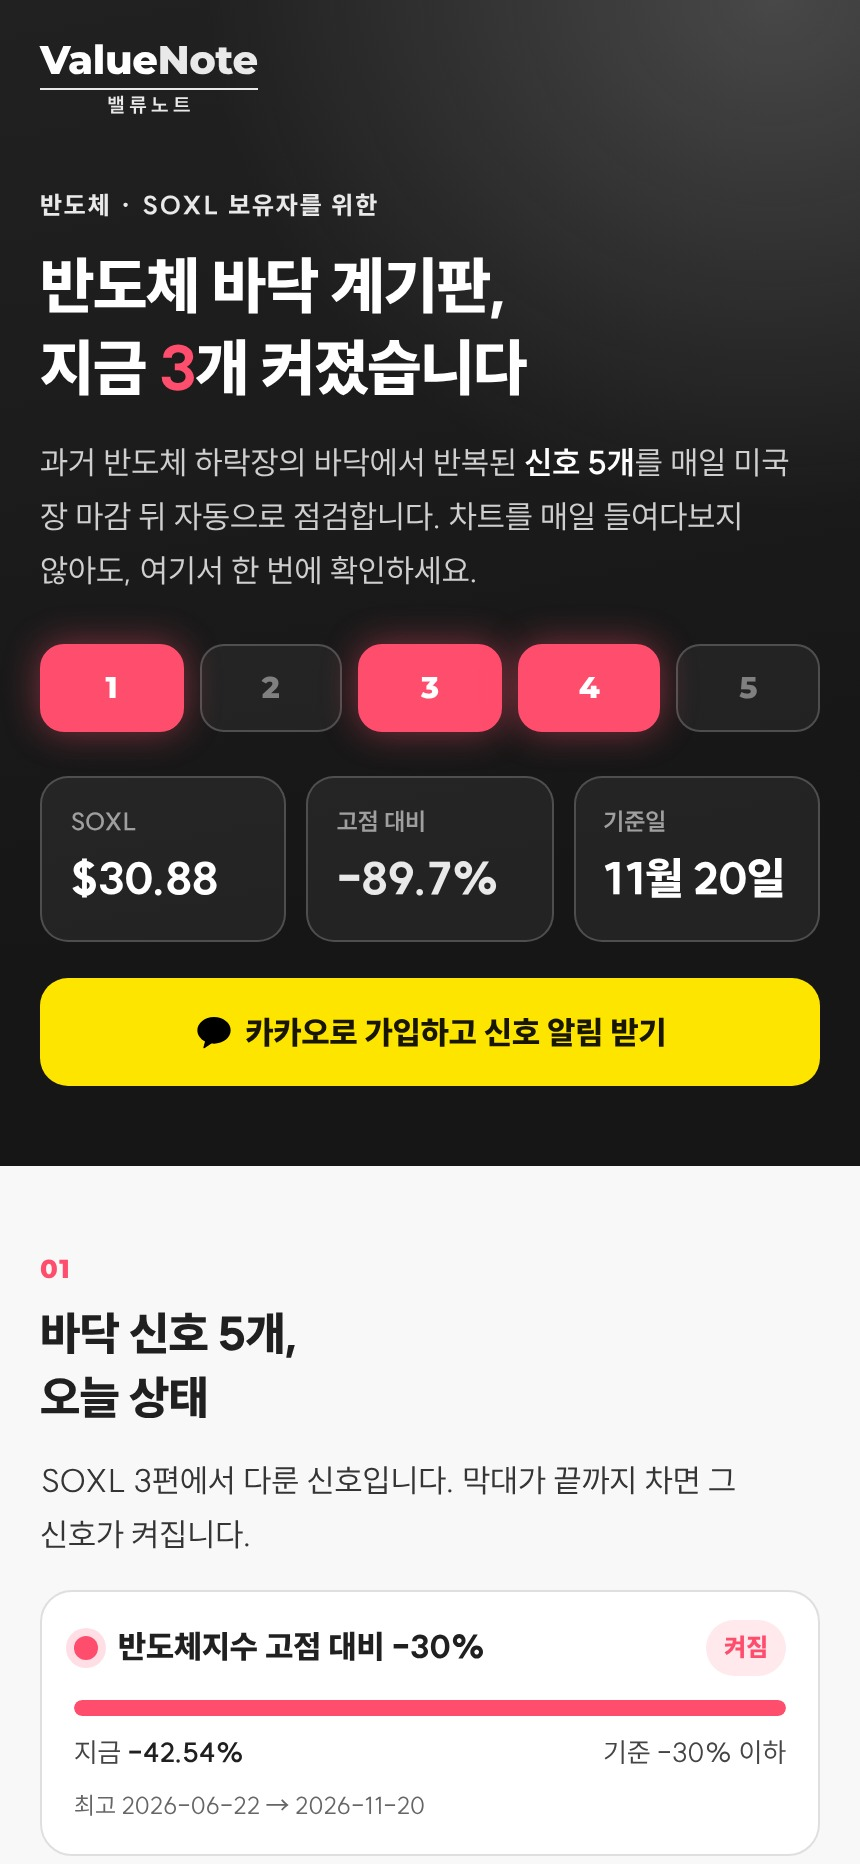
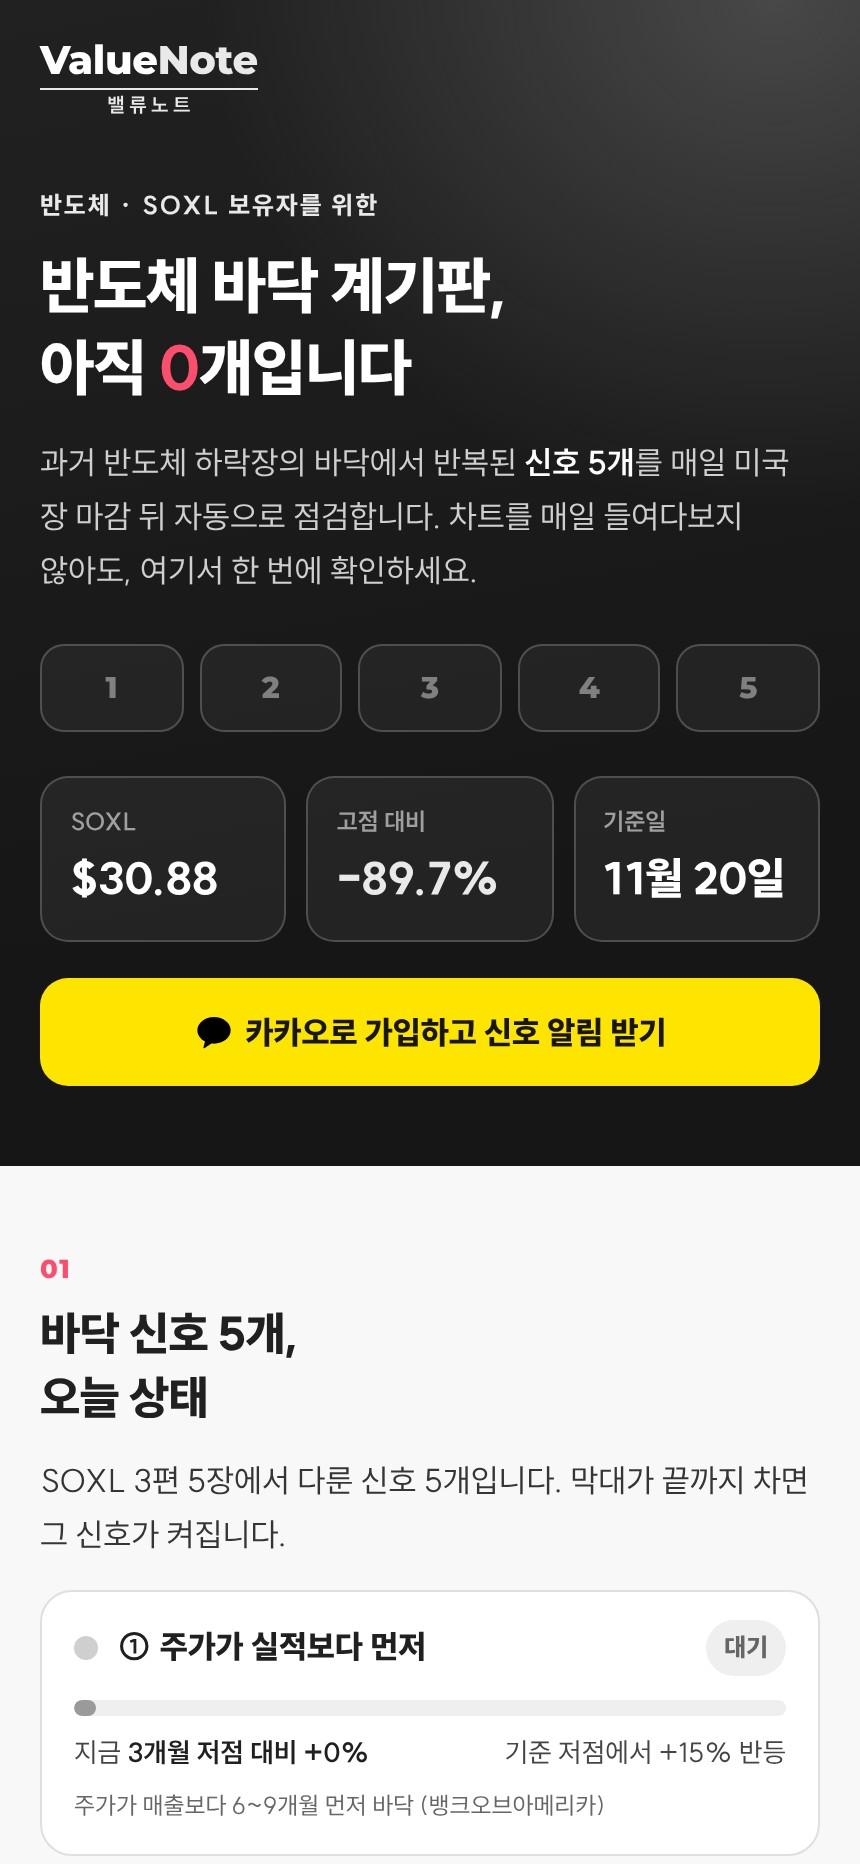
반도체 계기판: 신호 5개를 SOXL 3편 5장 정의로 맞춤(지금 0개), 하락 기간 달력일, 캡처 갱신
Claude-Session: https://claude.ai/code/session_01KaYReHBjpBU32vuLAbCbMK

diff --git a/semi.html b/semi.html
@@ -208,7 +208,7 @@ body{padding-bottom:76px}
   <div class="wrap">
     <a class="wm" href="/start?utm_source=semi"><span class="e">Value<i>Note</i></span><small>밸류노트</small></a>
     <div class="eyebrow">반도체 · SOXL 보유자를 위한</div>
-    <h1>반도체 바닥 계기판,<br>지금 <em id="h-on">–</em>개 켜졌습니다</h1>
+    <h1 id="h-t">반도체 바닥 계기판,<br>지금 <em id="h-on">–</em>개 켜졌습니다</h1>
     <p>과거 반도체 하락장의 바닥에서 반복된 <b>신호 5개</b>를 매일 미국 장 마감 뒤 자동으로 점검합니다. 차트를 매일 들여다보지 않아도, 여기서 한 번에 확인하세요.</p>
     <div class="lamps" id="lamps"></div>
     <div class="stat">
@@ -224,7 +224,7 @@ body{padding-bottom:76px}
 <section>
   <div class="no">01</div>
   <h2>바닥 신호 5개,<br>오늘 상태</h2>
-  <p>SOXL 3편에서 다룬 신호입니다. 막대가 끝까지 차면 그 신호가 켜집니다.</p>
+  <p>SOXL 3편 5장에서 다룬 신호 5개입니다. 막대가 끝까지 차면 그 신호가 켜집니다.</p>
   <div class="sig" id="sig"></div>
   <div class="note" id="sig-note"></div>
 </section>
@@ -331,7 +331,7 @@ document.addEventListener('click', function(e){ var a = e.target.closest && e.ta
 var md = function(d){ var p = String(d || '').split('-'); return p.length === 3 ? (+p[1]) + '월 ' + (+p[2]) + '일' : d; };
 var sg = function(x){ return (x > 0 ? '+' : '') + x.toFixed(1) + '%'; };
 function render(g){
-  $('#h-on').textContent = g.on;
+  if(g.on === 0) $('#h-t').innerHTML = '반도체 바닥 계기판,<br>아직 <em>0</em>개입니다'; else $('#h-on').textContent = g.on;
   $('#lamps').innerHTML = g.signals.map(function(s, i){ return '<span class="' + (s.on ? 'on' : '') + '">' + (i + 1) + '</span>'; }).join('');
   var sx = (g.etfs || []).filter(function(e){ return e.name === 'SOXL'; })[0];
   if(sx){ $('#h-soxl').textContent = '$' + sx.last.toFixed(2); $('#h-dd').textContent = sg(sx.dd); }
@@ -343,7 +343,7 @@ function render(g){
   $('#sig-note').textContent = '미국 ' + md(g.asof) + ' 마감 기준 · 매일 미국 장 마감 뒤 자동 갱신';
   var s = g.sox;
   $('#cmp').innerHTML = '<div><small>고점 대비 하락</small><b>' + sg(s.dd) + '</b><span>과거 평균 -32%</span></div>' +
-    '<div><small>하락 기간</small><b>' + s.days + '거래일</b><span>과거 평균 253일</span></div>';
+    '<div><small>하락 기간</small><b>' + ((g.raw && g.raw.calDays) || s.days) + '일</b><span>과거 평균 253일</span></div>';
   $('#etf').innerHTML = '<div class="hd"><span>상품</span><span style="text-align:right">지금</span><span style="text-align:right">고점 대비</span></div>' +
     g.etfs.map(function(e){ return '<div class="rw"><div><b>' + esc(e.name) + '</b><small>' + esc(e.lev) + ' · 고점 ' + md(e.hiDate) + '</small></div><span>$' + e.last.toFixed(2) + '</span><span class="up">' + sg(e.dd) + '</span></div>'; }).join('');
   var p = (s.spark || []).map(function(x){ return x[1]; });
